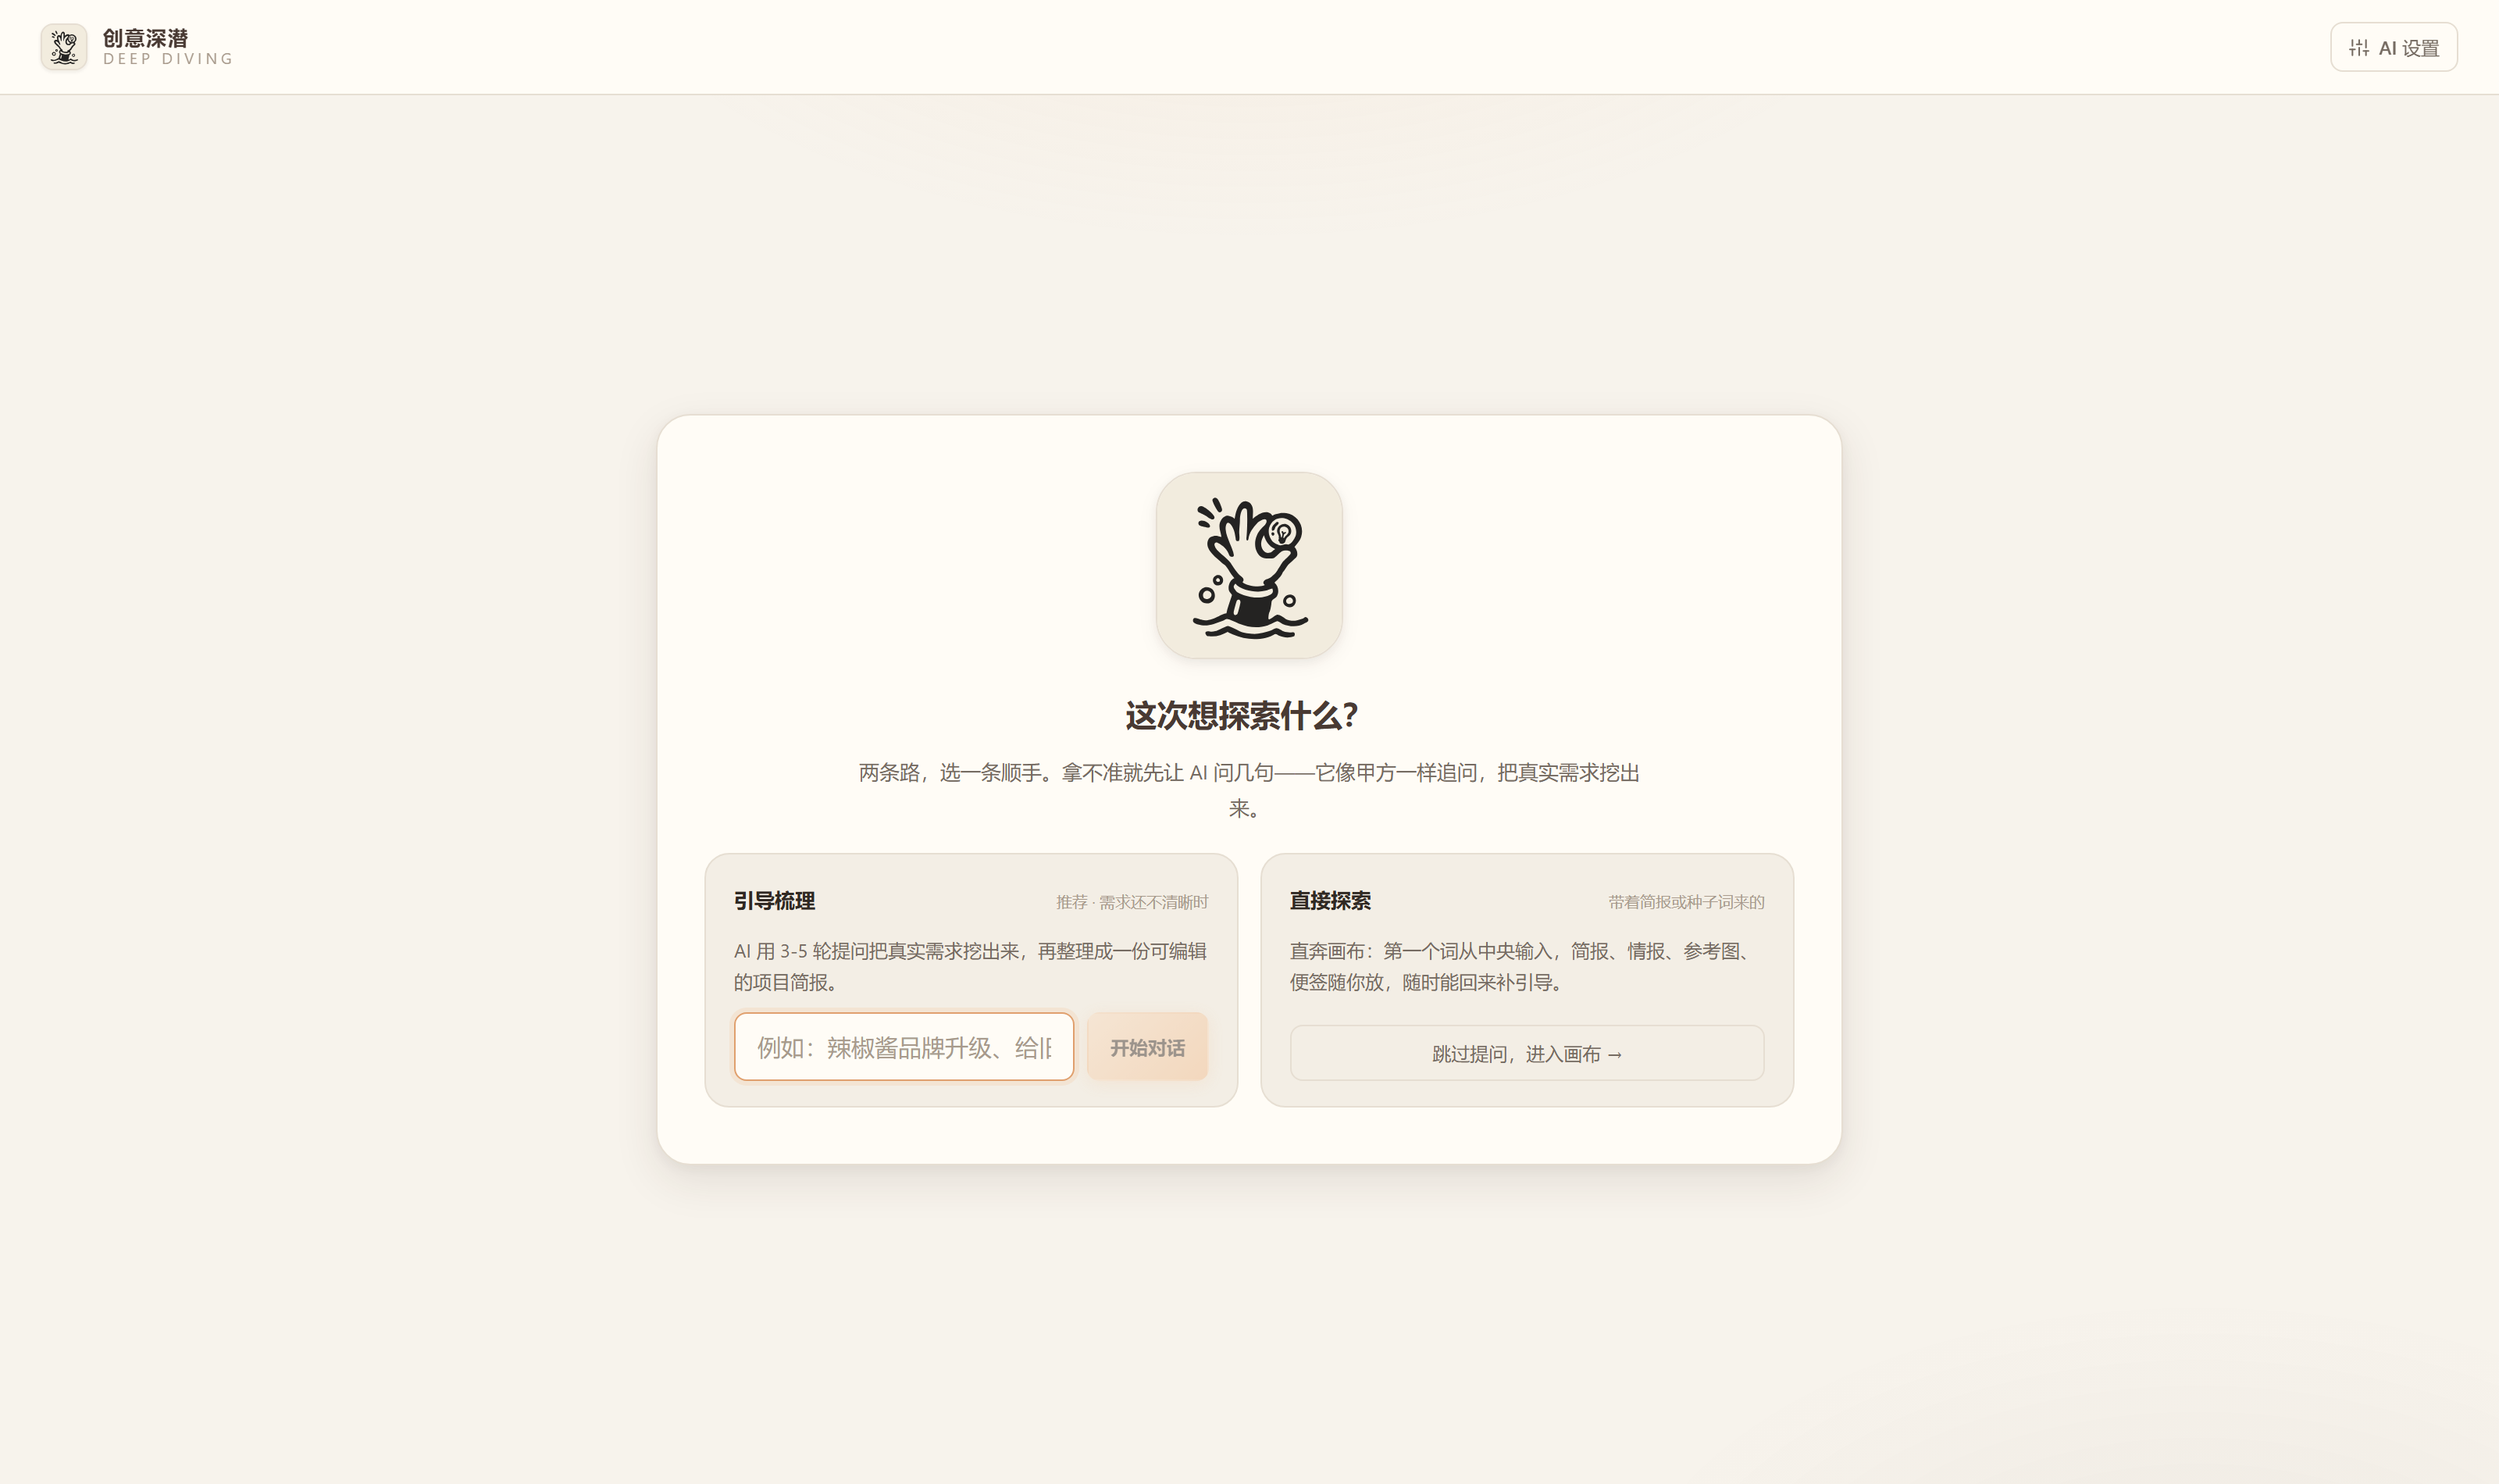
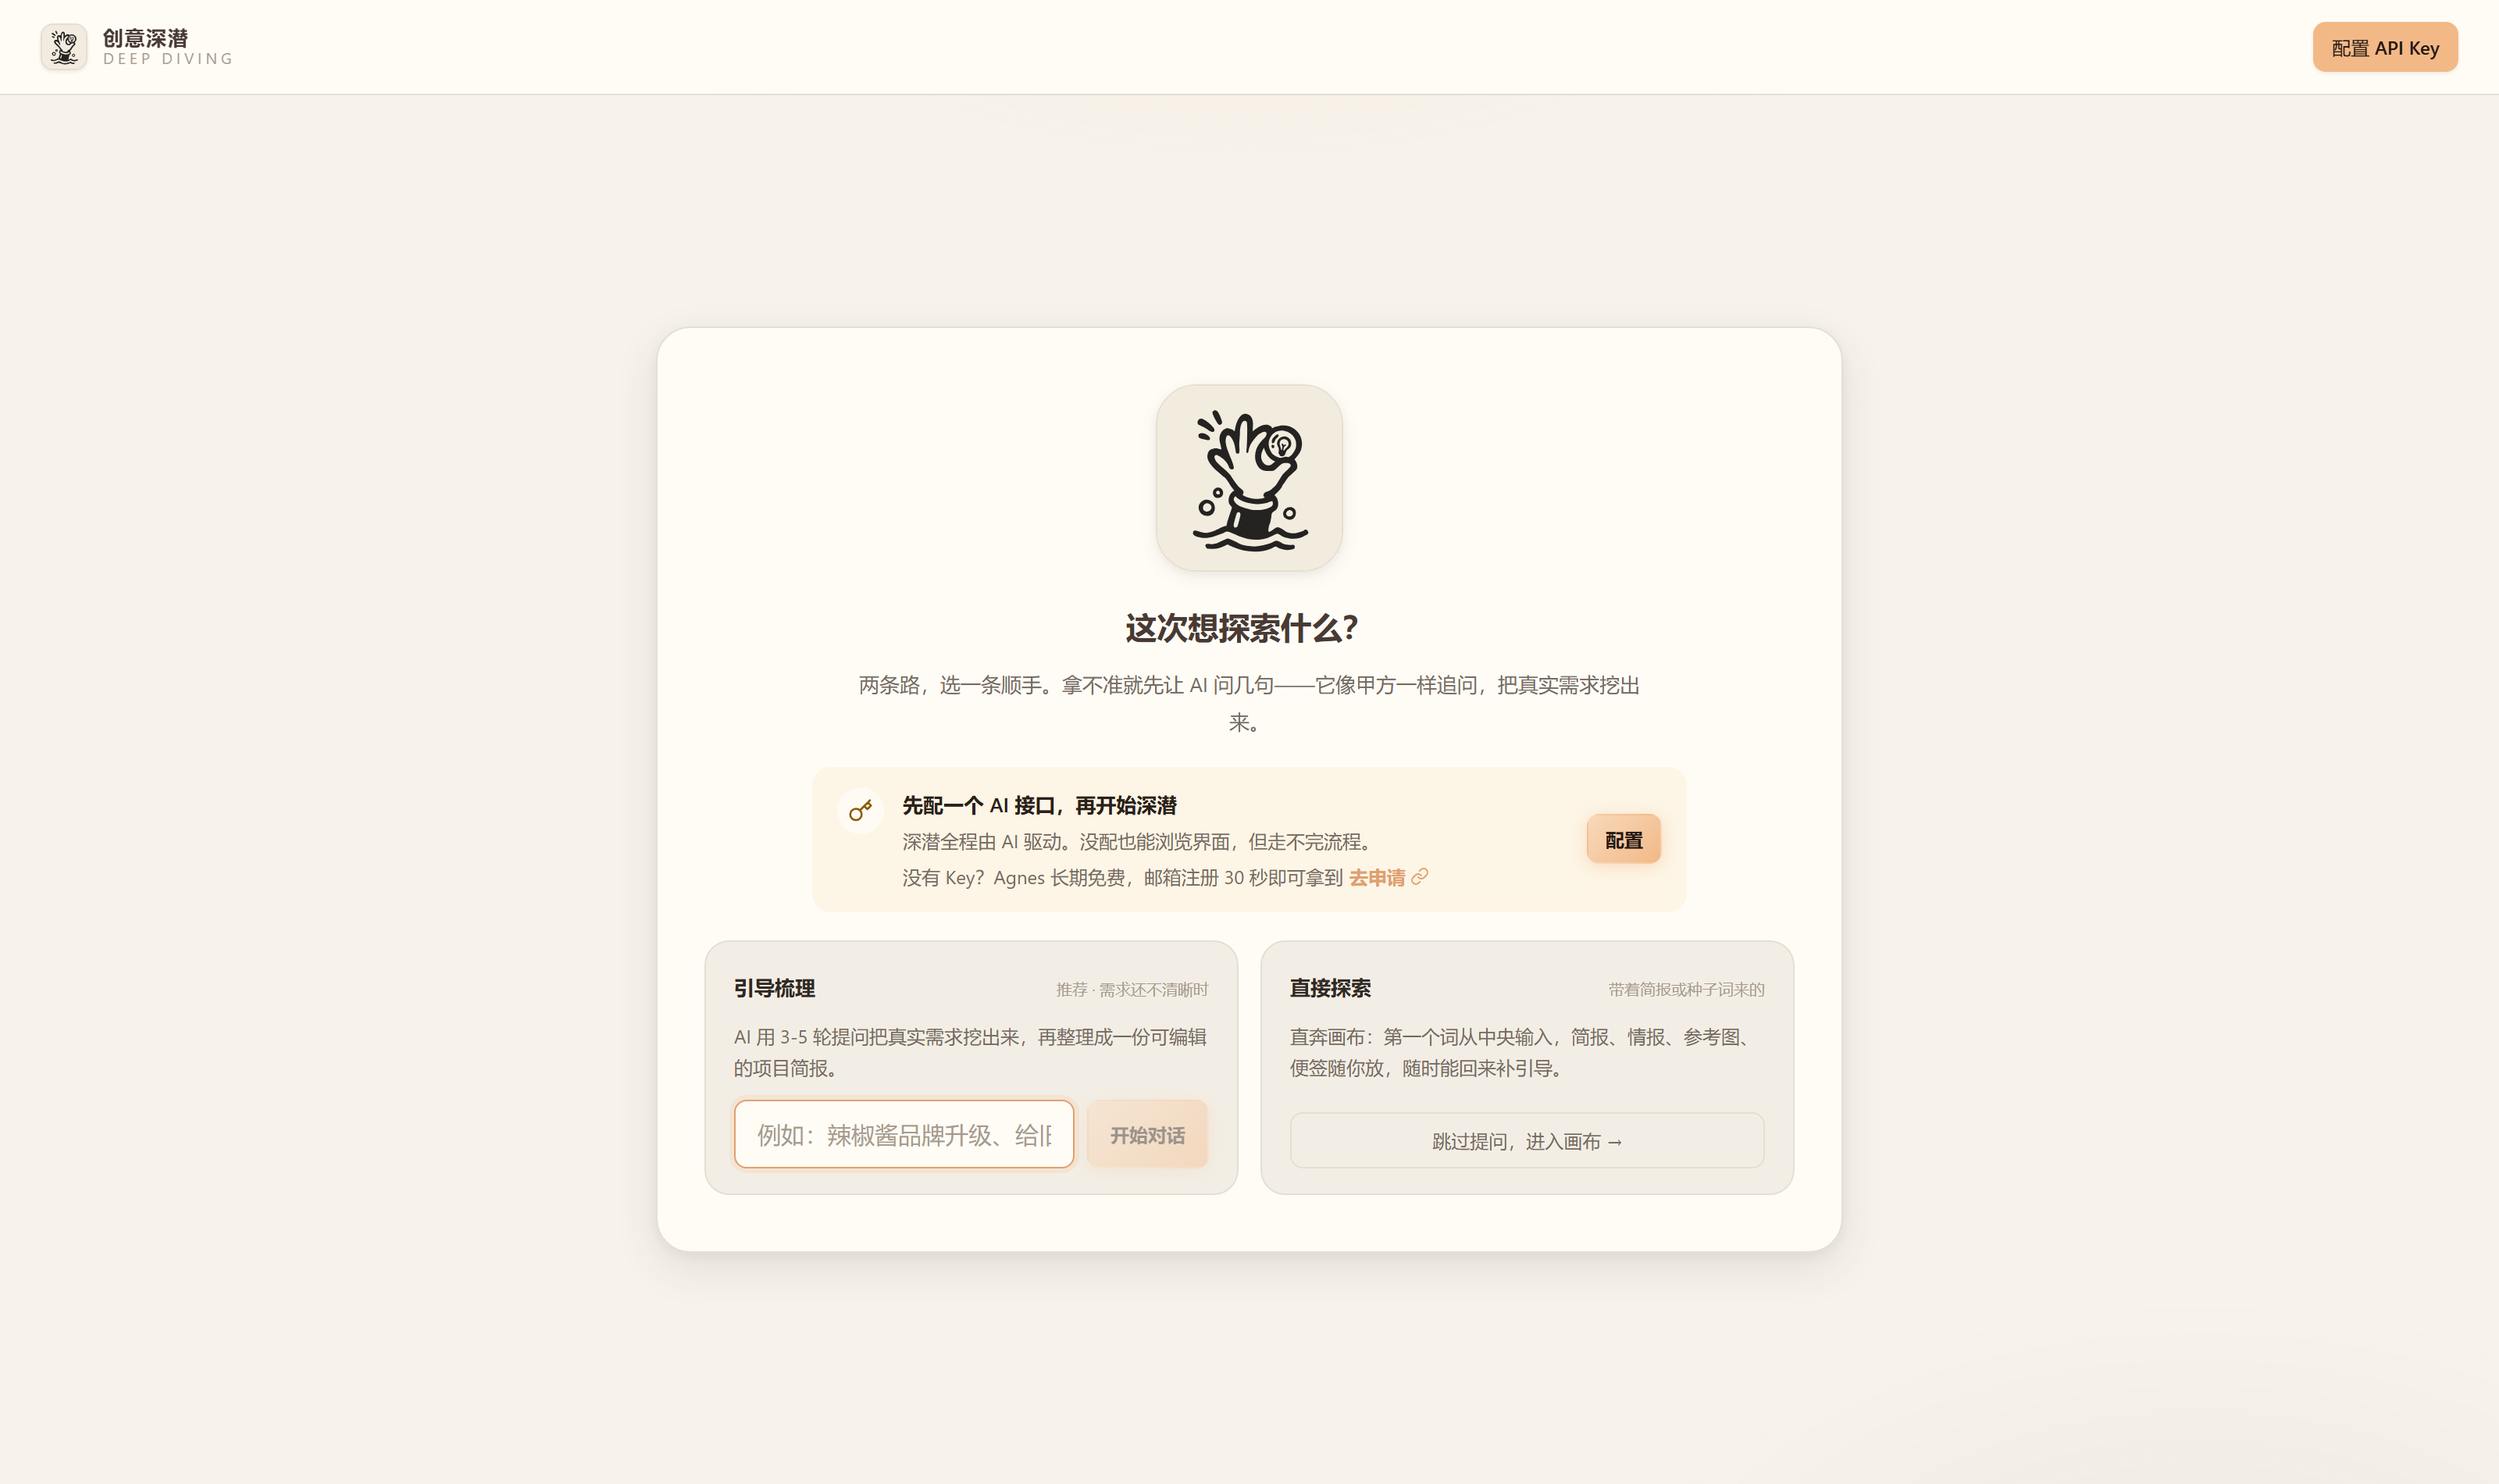
docs: 首屏截图改成首次打开的样子，并补一张配置接口的图
上一版截图是「已配好 Key」的状态：配置卡按设计隐藏了，只剩右上角一个
「AI 设置」。对老用户是正常界面，但 README 面对的是第一次来的人 ——
等于把最关键的那一步（去哪配、怎么配）从首页拿掉了。

- 01-welcome 重拍：无 Key 状态，首屏显示「先配一个 AI 接口，再开始深潜」
  卡片，含 Agnes 免费申请入口
- 新增 03-ai-setup：点「配置」后的弹窗，四个常用渠道一键填入 +
  申请指引就在按钮下方，放在「配置 AI 接口」章节里

Changed region(s): [[0.2812, 0.2795, 0.7188, 0.8074], [0.9062, 0.0, 1.0, 0.0621]]

diff --git a/README.md b/README.md
@@ -7,7 +7,7 @@
 
 AI 驱动的视觉设计师认知工作台。无限画布 + 真实 LLM 接口，覆盖「调研 → 发散 → 收敛 → 转译」全链路。
 
-![首屏：两条起步路径](docs/screenshots/01-welcome.png)
+![首屏：先配好 AI 接口，再选两条起步路径](docs/screenshots/01-welcome.png)
 
 ![画布：情报卡片、种子词与评分面板](docs/screenshots/02-canvas.png)
 
@@ -59,7 +59,9 @@ npm run dev
 
 ### 配置 AI 接口
 
-默认指向 Agnes（免费）。只要是 **OpenAI 兼容协议** 都能用（DeepSeek / 千问 / Kimi / 智谱 / 本地 Ollama 等）：
+默认指向 Agnes（免费）。只要是 **OpenAI 兼容协议** 都能用（DeepSeek / 千问 / Kimi / 智谱 / 本地 Ollama 等）。
+
+![配置 AI 接口：四个常用渠道一键填入，旁边就写着去哪申请 Key](docs/screenshots/03-ai-setup.png)
 
 | 字段 | 示例 |
 | :--- | :--- |
